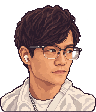
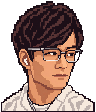
Redraw featured portraits and restore desk label text

diff --git a/Game/Assets/Scripts/UI/OfficeView.cs b/Game/Assets/Scripts/UI/OfficeView.cs
@@ -74,8 +74,14 @@ namespace SSD
 
             if (sprite != null)
             {
-                Px.Label(rt, "手冊", 93, 253, 30, 8, Pal.PaperInk, TextAnchor.MiddleCenter, false).fontSize = 8;
-                Px.Label(rt, "待辦", 561, 282, 29, 10, Pal.Hex("#c6a79e"), TextAnchor.MiddleCenter, false).fontSize = 9;
+                // 紙標沿書封往左斜，文字使用遊戲的原生像素字級。
+                Color32 paper = Pal.Hex("#d3a078");
+                Px.Fill(rt, 81, 250, 58, 4, paper);
+                Px.Fill(rt, 79, 254, 58, 5, paper);
+                Px.Fill(rt, 77, 259, 58, 5, paper);
+                Px.Fill(rt, 77, 264, 58, 1, Pal.Hex("#875846"));
+                Px.Label(rt, "工作手冊", 79, 250, 58, 14, Pal.PaperInk, TextAnchor.MiddleCenter, false);
+                Px.Label(rt, "待辦", 559, 279, 30, 14, Pal.Cream, TextAnchor.MiddleCenter, false);
             }
 
             BuildMonitor();
